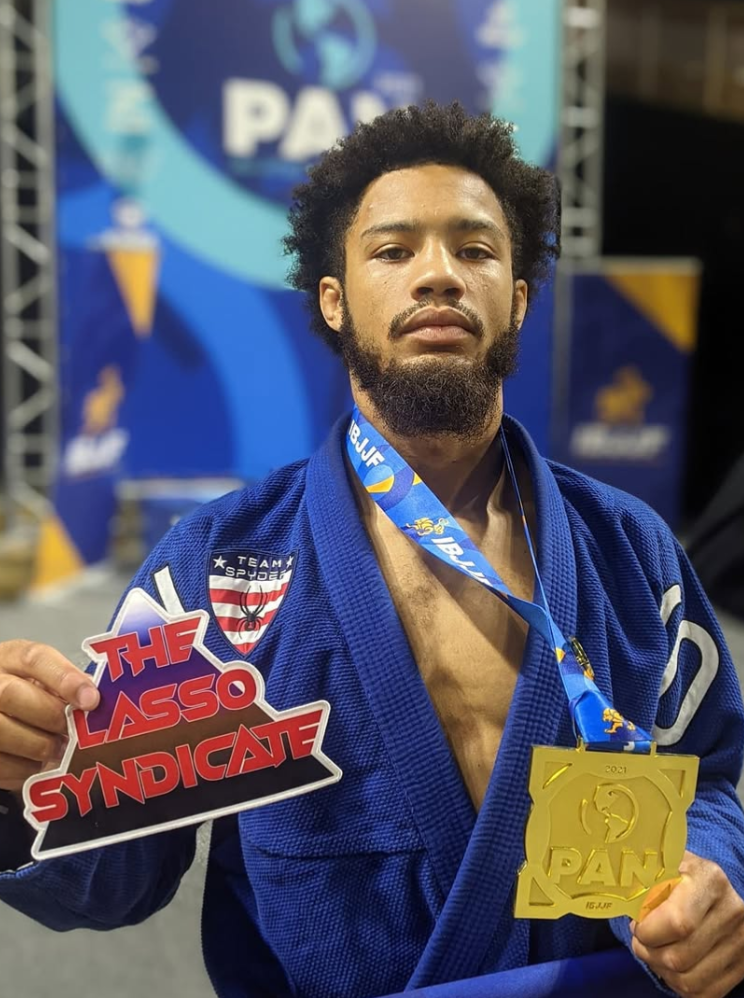
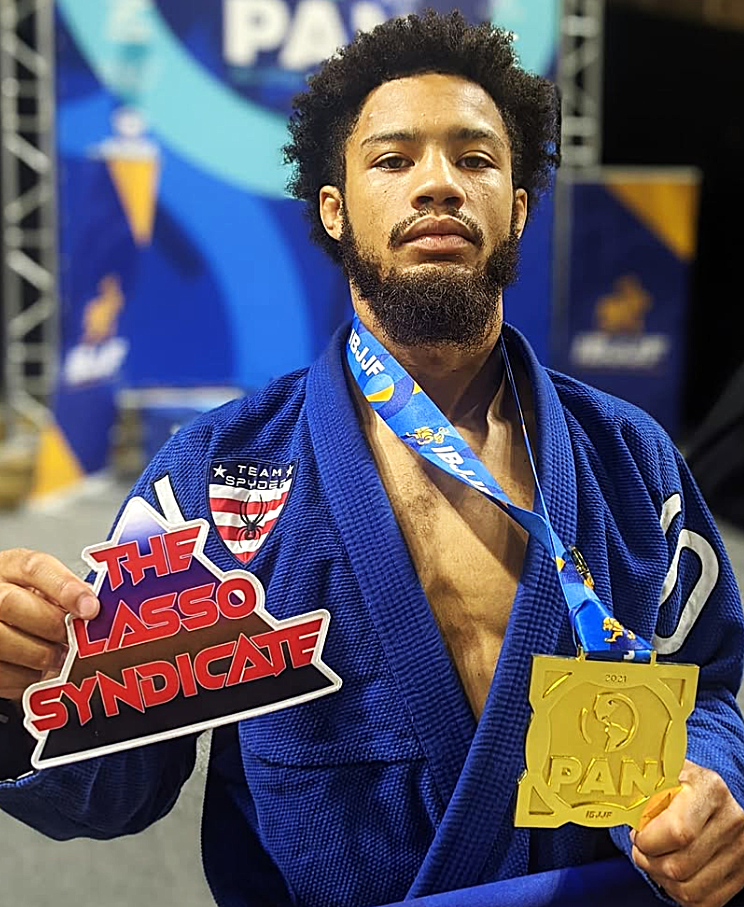
Adds images for coaches and belts

diff --git a/instructors.html b/instructors.html
@@ -10,7 +10,7 @@
       <input type="checkbox" id="menu-toggle" />
       <label for="menu-toggle" class="hamburger">☰</label>
       <img src="images/logo.jpg" class="logo" >
-
+ 
       <div class="nav-links">
         <a class="home" href="index.html">Home</a>
         <a class="instructors" href="instructors.html">Instructors</a>
@@ -23,48 +23,52 @@
       </div>
     </nav>
 
-
       <div class="coach-img-container">
-        <img src="images/johncloseup.jpg" alt="Coach John" style="width: 100%;">
+        <img src="images/john.png" alt="Coach John" style="width: 100%;">
         <div class="coach-img-content">
-          <h1>Coach John</h1>
-          <h3>Bio info about coach. Ranking for comps? Specialities. Years training.</h3>
+          <h1 class="coach-name">Coach John<br><img src="images/black.png" class="belt-color"></h1>
+            <h3 class="bio">
+              Bio info about coach. Ranking for comps? Specialities. Years training.
+              Bio info about coach. Ranking for comps? Specialities. Years training.
+              Bio info about coach. Ranking for comps? Specialities. Years training.
+              Bio info about coach. Ranking for comps? Specialities. Years training.
+              Bio info about coach. Ranking for comps? Specialities. Years training.
+            </h3>
         </div>
       </div>
       <div class="coach-img-container">
         <img src="images/jamil.PNG" alt="Coach Jamil" style="width:100%;">
         <div class="coach-img-content">
-          <h1>Coach Jamil</h1>
-          <h3>Bio info about coach. Ranking for comps? Specialities. Years training.</h3>
-        </div>
-      </div>
-
-      <div class="coach-img-container">
-        <img src="images/Dalash3.jpg" alt="Coach Dalash" style="width: 100%;">
-        <div class="coach-img-content">
-          <h1>Coach Dalash</h1>
-          <h3>Bio info about coach. Ranking for comps? Specialities. Years training.</h3>
+          <h1 class="coach-name">Coach Jamil<br><img src="images/black.png" class="belt-color"></h1>
+          <h3 class="bio">Bio info about coach. Ranking for comps? Specialities. Years training.</h3>
         </div>
       </div>
       <div class="coach-img-container">
-        <img src="images/zander.jpg" alt="Coach Zander" style="width:100%;">
+        <img src="images/2025-02-10.webp" alt="Coach Zander" style="width:100%;">
         <div class="coach-img-content">
-          <h1>Coach Zander</h1>
-          <h3>Bio info about coach. Ranking for comps? Specialities. Years training.</h3>
+          <h1 class="coach-name">Coach Zander<br><img src="images/brown.png" class="belt-color"></h1>
+          <h3 class="bio">Bio info about coach. Ranking for comps? Specialities. Years training.</h3>
         </div>
       </div>
       <div class="coach-img-container">
-        <img src="images/lyndon.webp" alt="Coach Lyndon" style="width:100%;">
+        <img src="images/2.png" alt="Coach Lyndon" style="width:100%;">
         <div class="coach-img-content">
-          <h1>Coach Lyndon</h1>
-          <h3>Bio info about coach. Ranking for comps? Specialities. Years training.</h3>
+          <h1 class="coach-name">Coach Lyndon<br><img src="images/brown.png" class="belt-color"></h1>
+          <h3 class="bio">Bio info about coach. Ranking for comps? Specialities. Years training.</h3>
         </div>
       </div>
       <div class="coach-img-container">
-        <img src="images/dan.jpg" alt="Coach Dan" style="width:100%;">
+        <img src="images/1.png" alt="Coach Dalash" style="width: 100%;">
         <div class="coach-img-content">
-          <h1>Coach Dan</h1>
-          <h3>Bio info about coach. Ranking for comps? Specialities. Years training.</h3>
+          <h1 class="coach-name">Coach Dalash</h1>
+          <h3 class="bio">Bio info about coach. Ranking for comps? Specialities. Years training.</h3>
+        </div>
+      </div>
+      <div class="coach-img-container">
+        <img src="images/3.png" alt="Coach Dan" style="width:100%;">
+        <div class="coach-img-content">
+          <h1  class="coach-name">Coach Dan</h1>
+          <h3 class="bio">Bio info about coach. Ranking for comps? Specialities. Years training.</h3>
         </div>
       </div>
 

diff --git a/css/styles.css b/css/styles.css
@@ -178,6 +178,8 @@ a {
   border-radius: 6px;
 }
 
+
+
 /* ================= Logo ================= */
 .logo {
   position: absolute;
@@ -307,6 +309,10 @@ li {
                0 0 6px rgb(0, 0, 0),
                0 0 12px rgba(0,0,0,0.7);
 }
+.here {
+  text-decoration: none;
+}
+
 
 /* ================= Content Layout ================= */
 .content-row {
@@ -481,6 +487,41 @@ caption {
 .contact-icon {
   max-width: 50px;
   height: auto;
+}
+
+
+/* ================= Instructors page ================= */
+.coach-img-container {
+  width: 100%;
+  height: auto;
+}
+
+.coach-img-content {
+  position: relative;
+  margin-bottom: 50px;
+}
+
+.coach-name {
+  color: var(--white);
+  background-color: rgba(0, 0, 0, 0.691);
+  padding: 10px;
+  border-radius: 15px;
+  font-size: 2em;
+  margin-top: -30%;
+  text-align: center;
+}
+
+.bio {
+  color: var(--white);
+  font-weight: 200;
+  margin-bottom: 50px;
+  margin-top: 10%;
+  text-align: left;
+  background-color: rgba(0, 0, 0, 0.691);
+}
+
+.belt-color {
+  max-width: 80px;
 }
 
 

diff --git a/index.html b/index.html
@@ -45,7 +45,7 @@
                   and adults!</span></h4>
                   <h3 class="why">Why Choose Us?</h3>
                   <aside class="image2-container">
-                    <img src="images/2025-02-10.webp" class="home-image2" alt="Coach Zander">
+                    <img src="images/2025-05-16.webp" class="home-image2" alt="Coach Jamil">
                     <h1 class="benefits">
                       <ul id="list-headings">Build Confidence & Discipline<br>
                         <li class="list">Master real-time decision making during live sparring.</li>
@@ -114,7 +114,7 @@
           <aside class="image3-container">
                 <img src="images/IMG_1385.jpg" class="dalash-img">
                 <ul class="container3-list">
-                  <li class="container3-list-item">Join us in the cage!</li>
+                  <li class="container3-list-item">Adults & Kids MMA schedule here</li>
                 </ul>
           </aside>
                       
